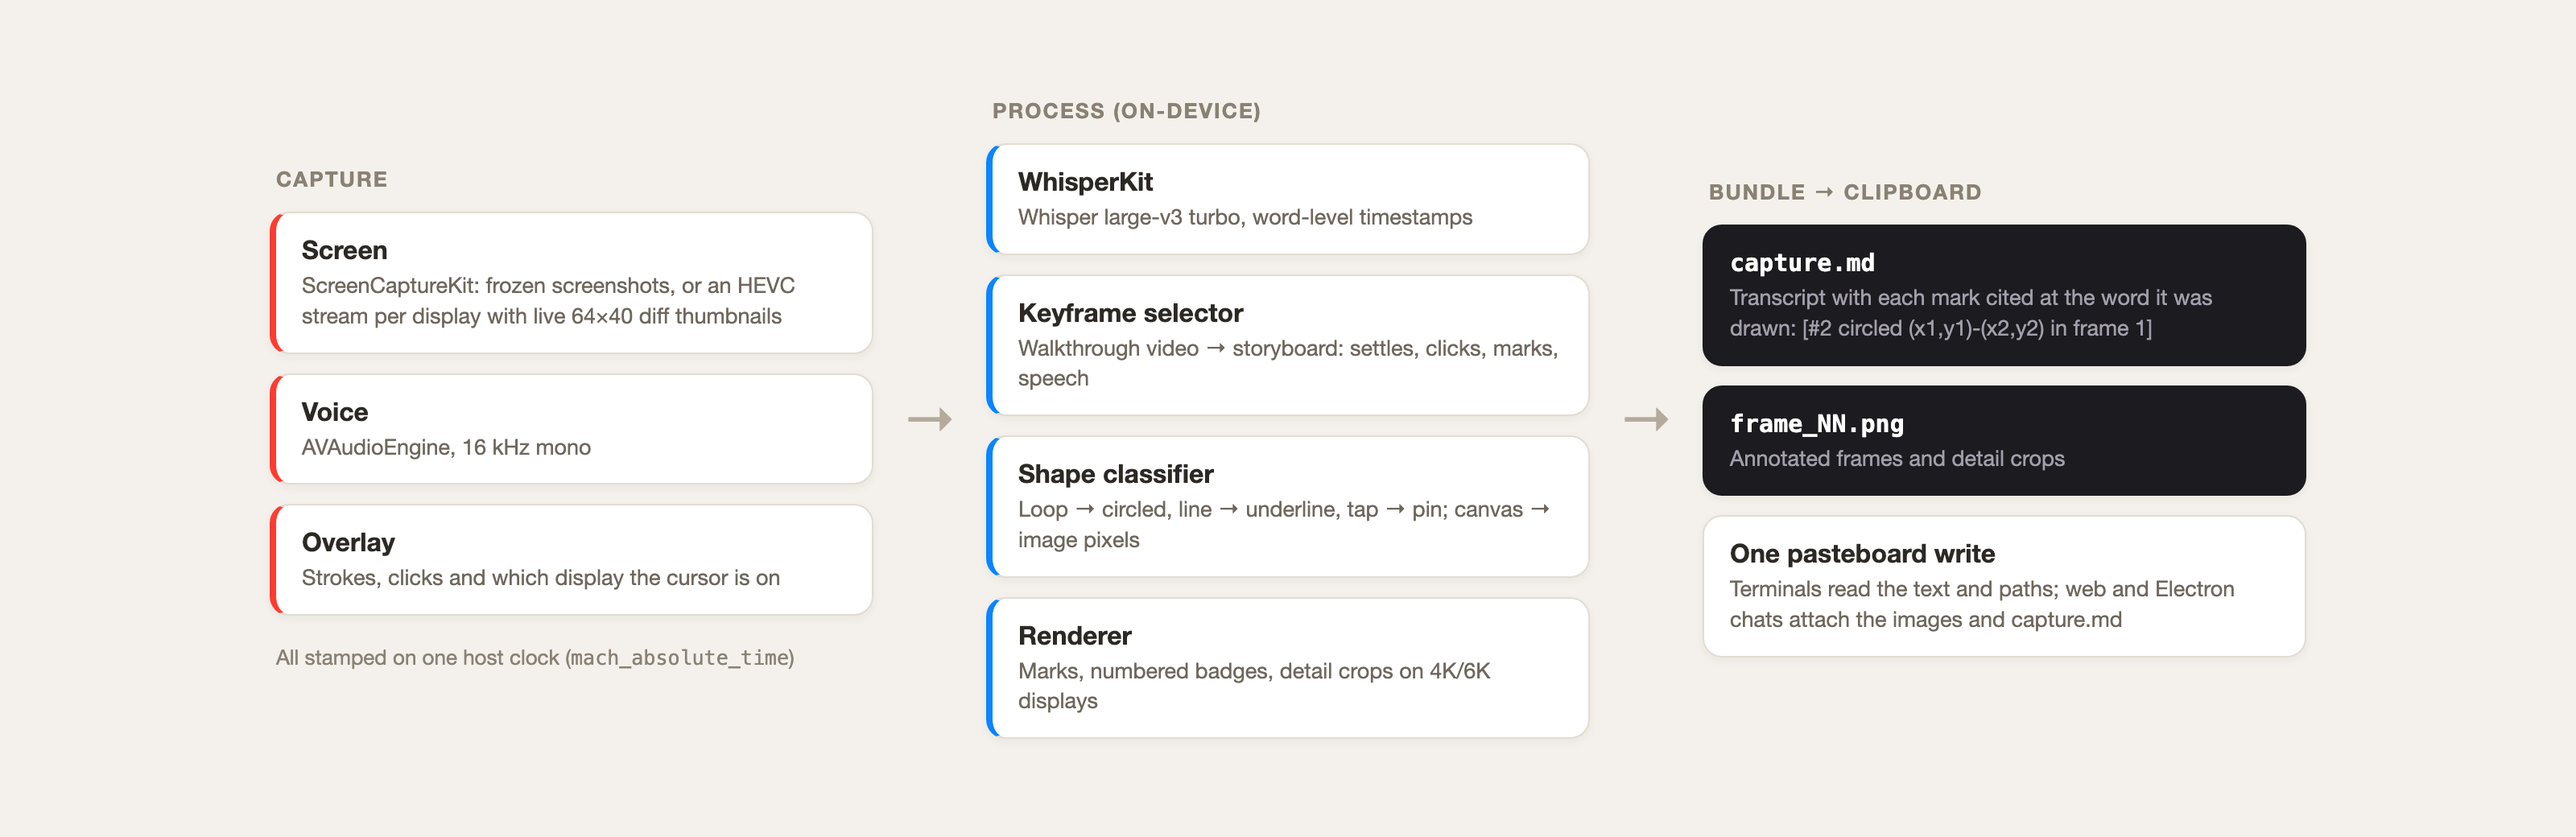
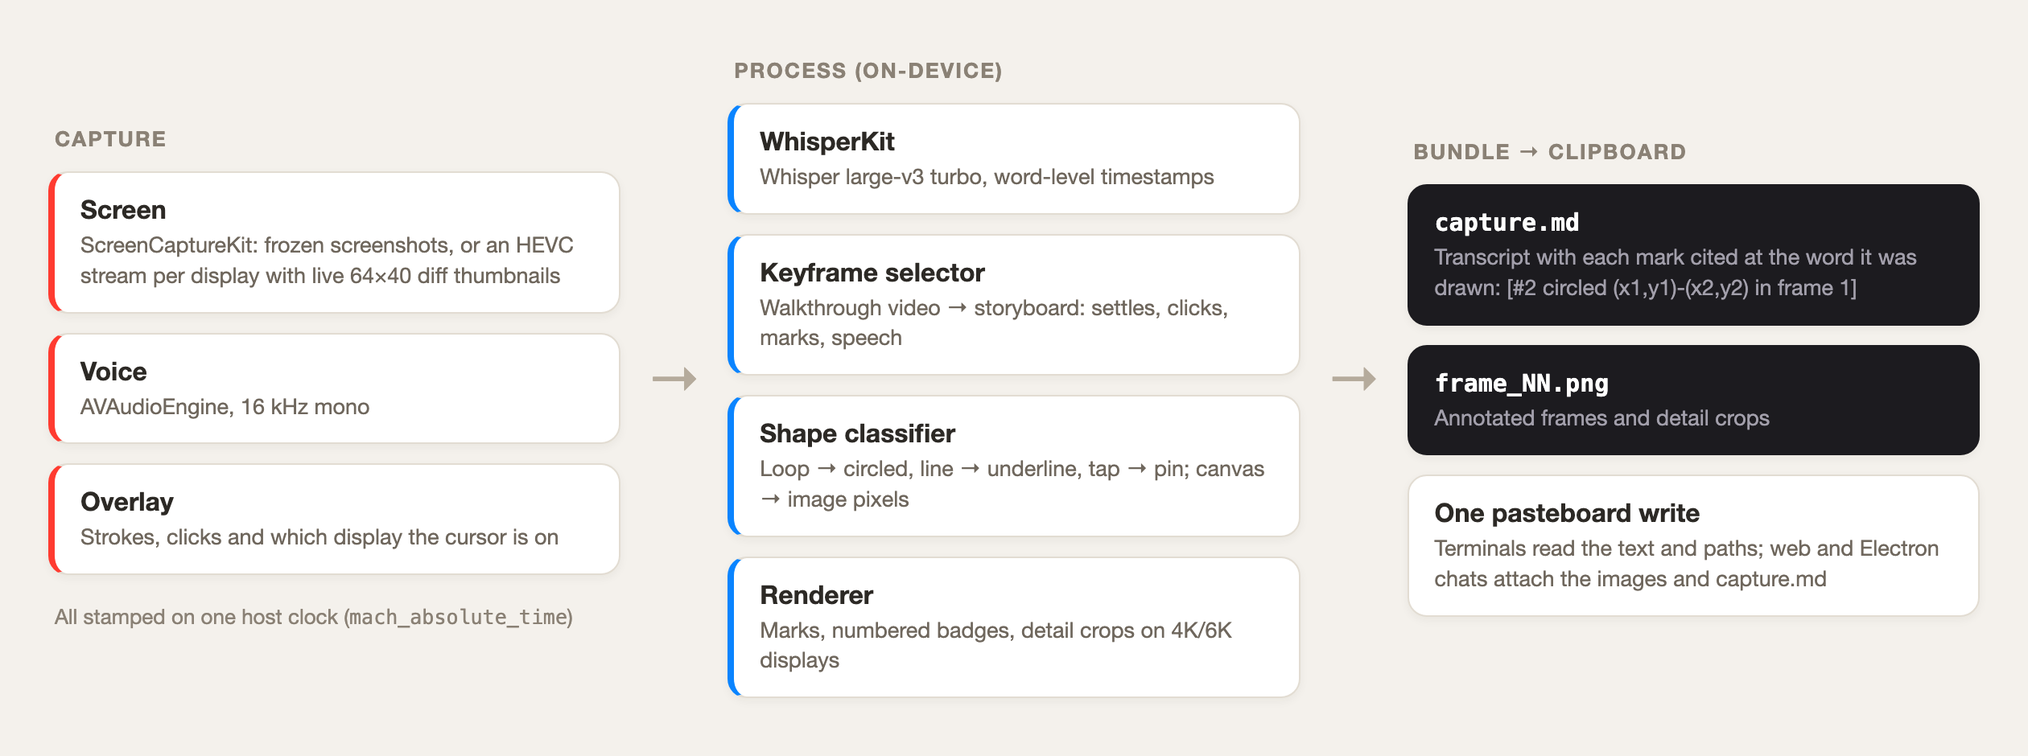
Crop the pipeline figure to its content

diff --git a/docs/demo/pipeline.html b/docs/demo/pipeline.html
@@ -3,7 +3,7 @@
 <html><head><meta charset="utf-8">
 <style>
   * { box-sizing: border-box; margin: 0; padding: 0; }
-  html, body { width: 1600px; height: 520px; overflow: hidden; }
+  html, body { width: 1260px; height: 470px; overflow: hidden; }
   body { font-family: -apple-system, "SF Pro Text", "Helvetica Neue", sans-serif; background: #f4f1ec; color: #2c2925; display: flex; align-items: center; justify-content: center; gap: 0; padding: 0 30px; }
   .stage { display: flex; flex-direction: column; gap: 12px; width: 375px; }
   .stage h3 { font-size: 13px; letter-spacing: .08em; text-transform: uppercase; color: #8a8175; font-weight: 700; padding-left: 4px; }
